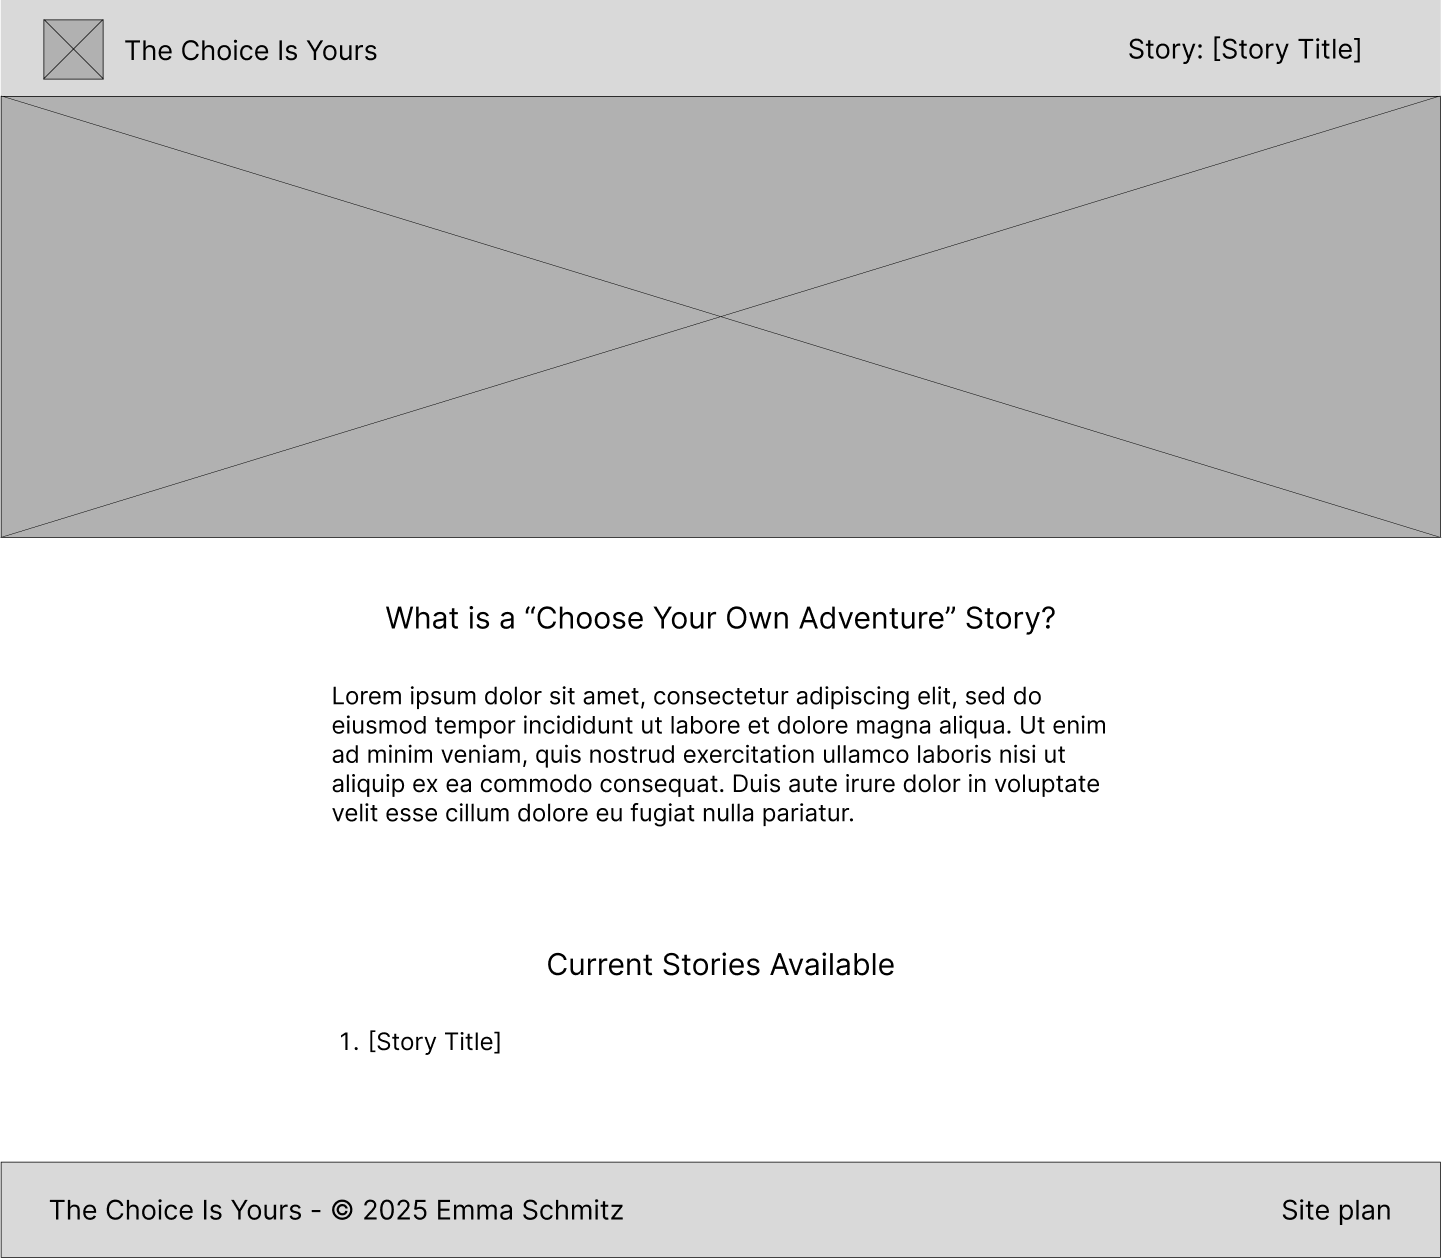
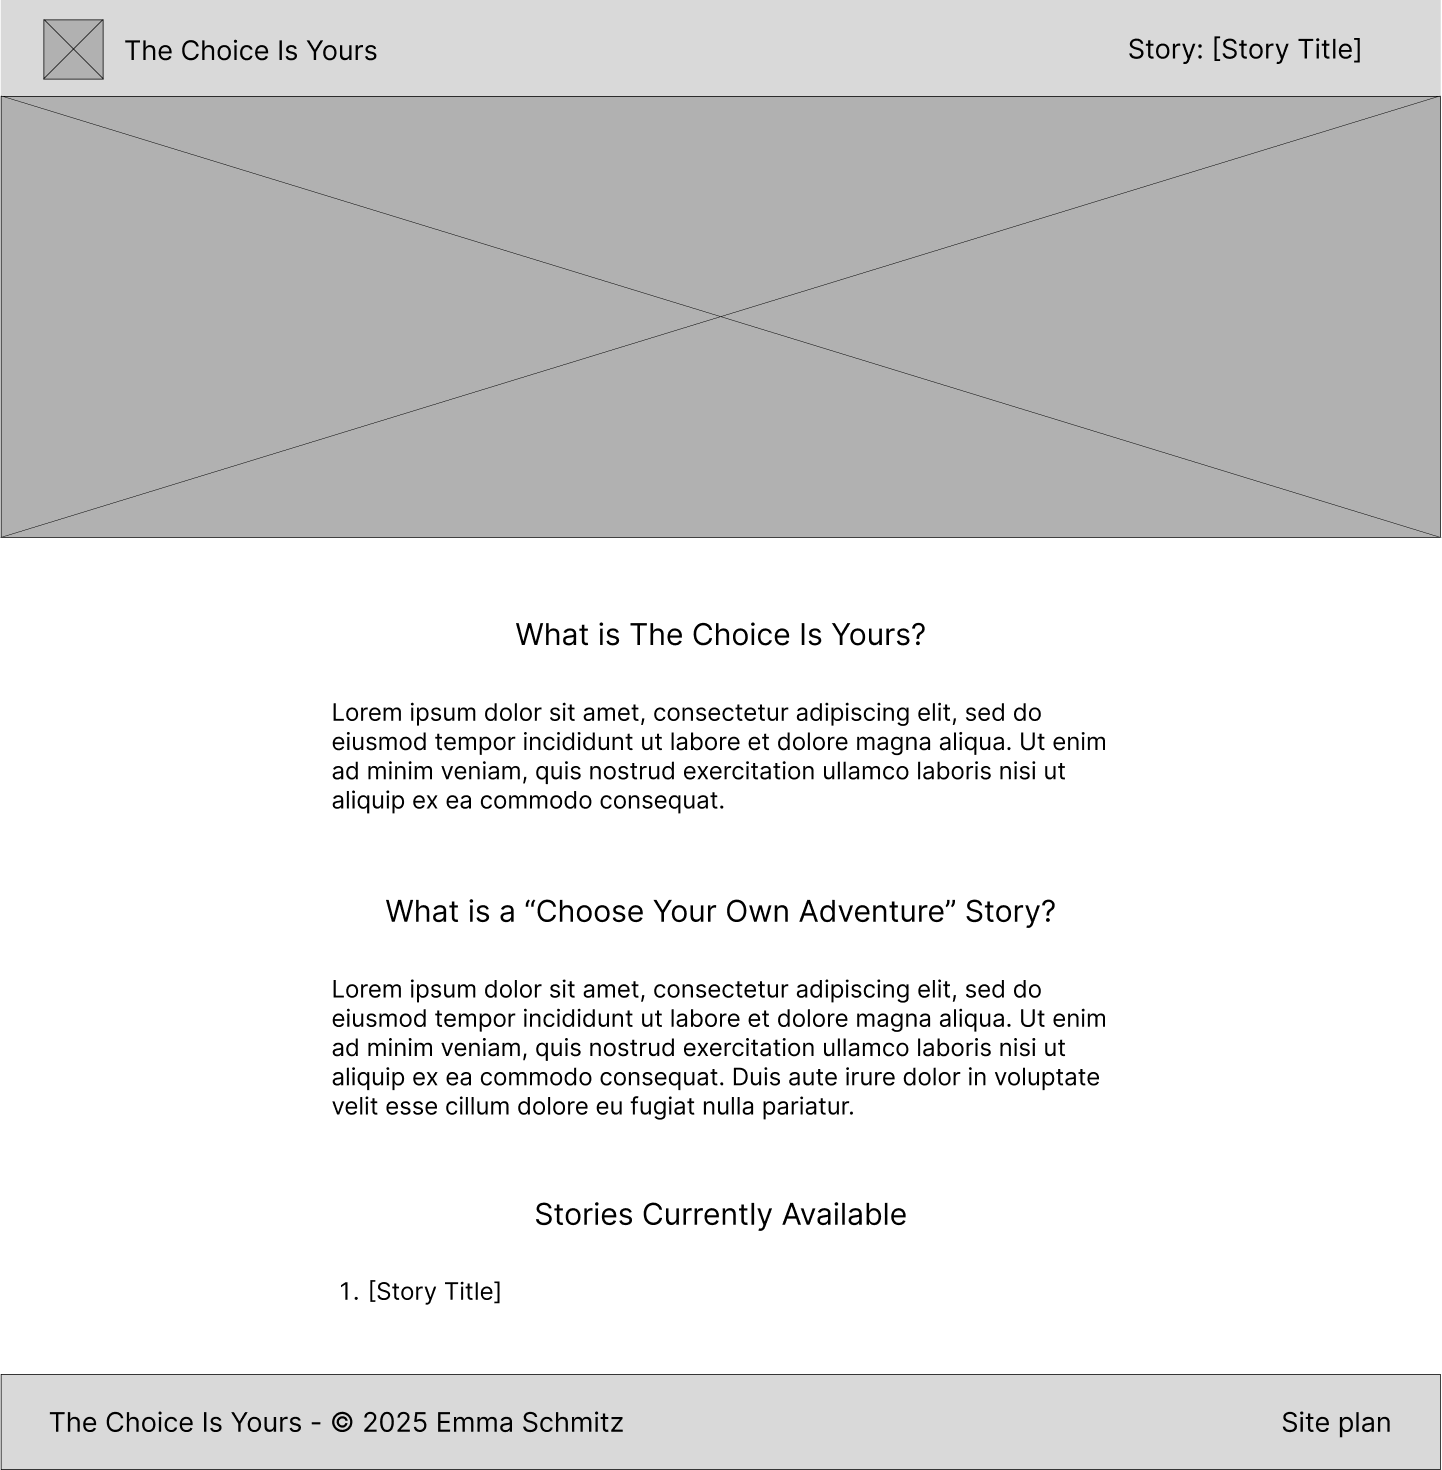
Edited final project, made changes to site plan.

diff --git a/choice-adventure/styles/adventure.css b/choice-adventure/styles/adventure.css
@@ -12,7 +12,6 @@
 }
 
 body {
-    max-width: 1200px;
     margin: 0 auto;
 }
 
@@ -36,7 +35,7 @@ nav img {
 nav a {
     color: var(--accent2-color);
     font-family: var(--paragraph-font);
-    text-decoration: none;
+    /* text-decoration: none; */
     padding: 10px;
 }
 
@@ -53,4 +52,8 @@ nav a:visited {
     font-family: var(--heading-font);
     font-size: 2em;
     margin: 20px;
+}
+
+#hero img {
+    width: 100%;
 }

diff --git a/choice-adventure/index.html b/choice-adventure/index.html
@@ -17,5 +17,8 @@
             <a href="in-the-suburbs.html">Story: In the Suburbs</a>
         </div>
     </nav>
+    <div id="hero">
+        <img src="images/hero-square.jpg" alt="Hero image of a branching path in a forest">
+    </div>
 </body>
 </html>
